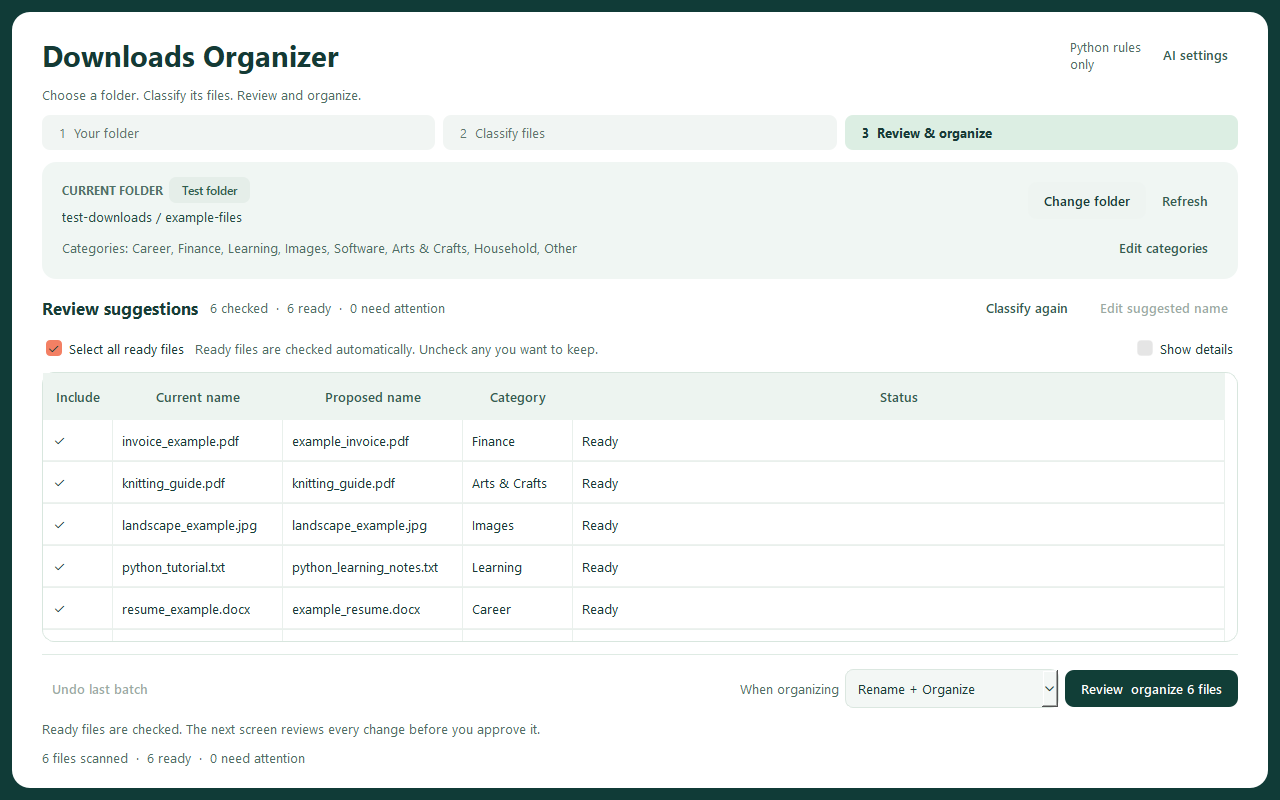
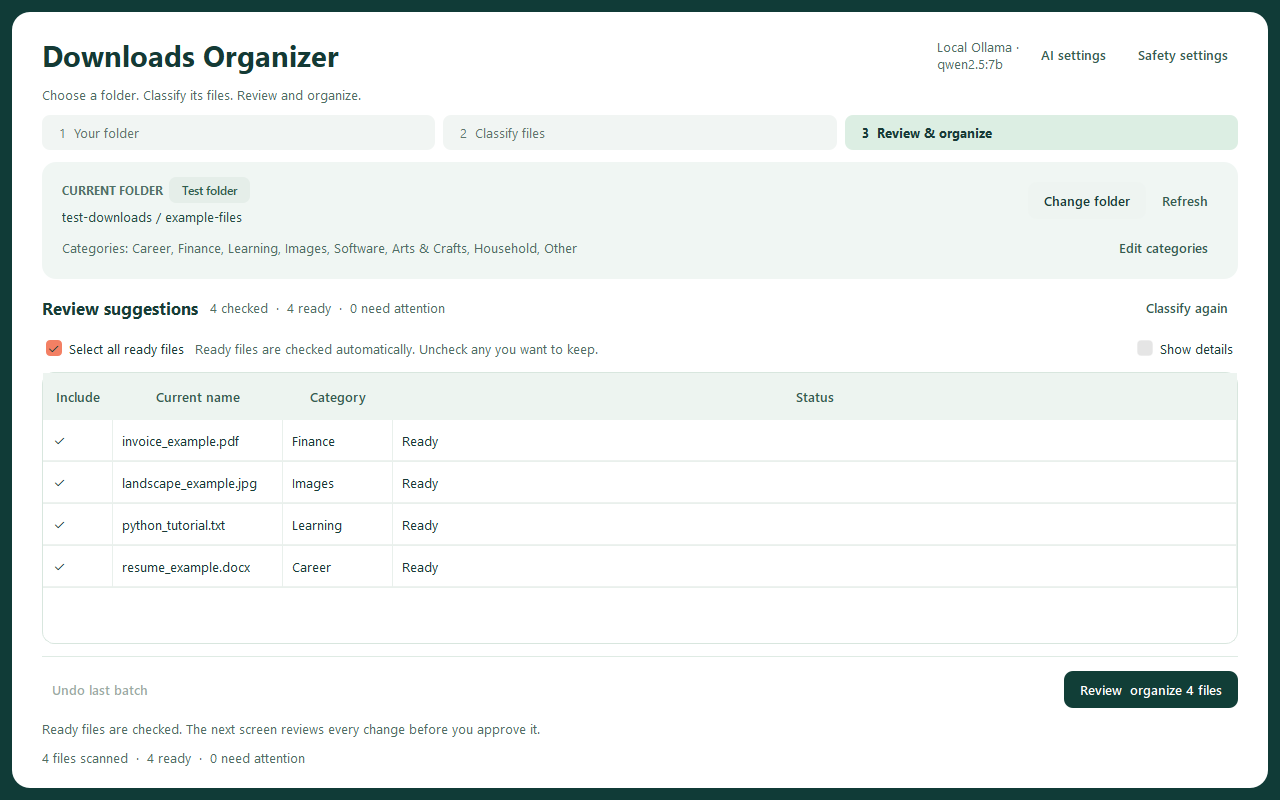
Preserve original filenames when organizing files

diff --git a/organizer/qt_interface.py b/organizer/qt_interface.py
@@ -404,6 +404,7 @@ class OrganizerWindow(QMainWindow):
         actions.addWidget(self.mode_label)
         self.mode_box = QComboBox()
         self.mode_box.addItems(MODES)
+        self.mode_box.setCurrentText('Organize only')
         self.mode_box.currentIndexChanged.connect(lambda _: self.prepare(preserve_checks=True))
         actions.addWidget(self.mode_box)
         self.ai_btn = self._button('Classify files', self.analyze, True)
@@ -466,18 +467,17 @@ class OrganizerWindow(QMainWindow):
         self.apply_btn.setVisible(reviewing and writable)
         self.apply_btn.setEnabled(idle and writable and checked > 0)
         self.apply_btn.setText(f'Review & organize {checked} {"file" if checked == 1 else "files"}')
-        self.mode_label.setVisible(reviewing and writable)
-        self.mode_box.setVisible(reviewing and writable)
-        self.mode_box.setEnabled(reviewing and writable)
+        self.mode_label.setVisible(False)
+        self.mode_box.setVisible(False)
+        self.mode_box.setEnabled(False)
         self.selection_bar.setVisible(reviewing and bool(self.proposals))
         self.select_all.setVisible(writable)
         self.selection_hint.setVisible(writable)
         self.select_all.setEnabled(idle and writable and ready > 0)
         self.details_toggle.setEnabled(idle)
-        self.edit_btn.setVisible(reviewing and writable and bool(self.files))
+        self.edit_btn.setVisible(False)
         focused = self.table.selectionModel().selectedRows()
-        self.edit_btn.setEnabled(reviewing and writable and len(focused) == 1
-                                 and self.mode_box.currentText() != 'Organize only')
+        self.edit_btn.setEnabled(False)
 
         self.table_title.setText('Review suggestions' if self.classified else 'Files in this folder')
         if self.busy:
@@ -488,7 +488,7 @@ class OrganizerWindow(QMainWindow):
             self.table_summary.setText(f'{len(self.files)} files')
         self.empty_label.setVisible(not self.files and idle)
         for column in (0, 2, 3, 4, 5, 6):
-            hidden = (not self.classified or (column == 0 and self.read_only)
+            hidden = (column == 2 or not self.classified or (column == 0 and self.read_only)
                       or (column in (4, 5, 6) and not self.details_toggle.isChecked()))
             self.table.setColumnHidden(column, hidden)
         if self.read_only:
@@ -500,7 +500,7 @@ class OrganizerWindow(QMainWindow):
             hint = 'Add files to this folder or choose another folder to begin.'
         elif not self.classified:
             hint = ('Start with Classify. You can review and edit the suggested categories first.' if self.categories is None
-                    else 'Classify files to get suggested names and categories. Files are changed only after your approval.')
+                    else 'Classify files to get suggested categories. Files are changed only after your approval.')
         elif not ready:
             hint = 'No files are ready to organize. Check their status, change the action, or classify again.'
         elif not checked:
@@ -579,7 +579,7 @@ class OrganizerWindow(QMainWindow):
                 read_only_reason = str(exc)
             else:
                 choice = QMessageBox.question(self, 'Folder access',
-                    f'Folder: {selected}\n\nAllow classification, approved renames/moves, and Undo here? '
+                    f'Folder: {selected}\n\nAllow classification, approved moves, and Undo here? '
                     'Only immediate files are scanned. Shared databases stay in the app data folder. '
                     'Choose No for read-only preview. No files change until you review and approve an operation.',
                     QMessageBox.StandardButton.Yes | QMessageBox.StandardButton.No | QMessageBox.StandardButton.Cancel,
@@ -589,7 +589,7 @@ class OrganizerWindow(QMainWindow):
                 writable_external = choice == QMessageBox.StandardButton.Yes
                 read_only = not writable_external
         warning = ('\n\nREAD-ONLY: files can be previewed but not changed or analyzed.\n' + read_only_reason if read_only else
-                   '\n\nWRITABLE: classification can read document text. Approved operations can rename/move files here. '
+                   '\n\nWRITABLE: classification can read document text. Approved operations can move files here. '
                    'Back up important files first. Undo applies to this folder only.')
         answer, ok = QInputDialog.getText(self, 'Confirm folder change',
             f'Current: {self.selected_root}\nNew: {selected}{warning}\n\nThe current scan and preview will be cleared. Type YES to continue:')
@@ -653,8 +653,8 @@ class OrganizerWindow(QMainWindow):
             self.status.setText(f'{len(self.files)} files loaded from this folder.')
             return True
         try:
-            self.proposals = (build_readonly_proposals(self.files, self.mode_box.currentText(), self.selected_root)
-                              if self.read_only else build_proposals(self.files, self.mode_box.currentText(), self.selected_root, self.edited_names, self.categories, self.ai_config))
+            self.proposals = (build_readonly_proposals(self.files, 'Organize only', self.selected_root)
+                              if self.read_only else build_proposals(self.files, 'Organize only', self.selected_root, None, self.categories, self.ai_config))
         except Exception as exc:
             self.proposals = []
             self.table.setRowCount(0)

diff --git a/tests/test_organizer.py b/tests/test_organizer.py
@@ -293,10 +293,19 @@ class OrganizerTests(unittest.TestCase):
         (self.root / 'Finance' / 'taken.pdf').write_bytes(b'other')
         proposals = file_manager.build_proposals(classifier.scan(), 'Rename + Organize', self.root,
                                                   {'invoice.pdf': 'taken.pdf'})
-        self.assertEqual(proposals[0]['issue'], 'Destination already exists')
+        self.assertEqual(proposals[0]['dst'].name, 'invoice.pdf')
+
+    def test_apply_rejects_tampered_rename_proposal(self):
+        self.file('invoice.pdf')
+        file_manager.history_init()
+        proposal = file_manager.build_proposals(classifier.scan(), 'Organize only')[0]
+        proposal['dst'] = proposal['dst'].with_name('renamed.pdf')
+        result = file_manager.apply_proposals([proposal])
+        self.assertIn('Renaming is disabled', result[0][1])
+        self.assertTrue((self.root / 'invoice.pdf').is_file())
         proposals = file_manager.build_proposals(classifier.scan(), 'Rename + Organize', self.root,
                                                   {'invoice.pdf': '../bad.pdf'})
-        self.assertEqual(proposals[0]['issue'], 'Unsafe filename or changed extension')
+        self.assertEqual(proposals[0]['dst'].name, 'invoice.pdf')
 
     def test_edit_name_invalidates_gui_preview(self):
         self.file('invoice.pdf')
@@ -309,10 +318,9 @@ class OrganizerTests(unittest.TestCase):
                 with patch.object(interface.messagebox, 'showinfo'):
                     app.show_preview()
                 app.tree.selection_set('file:0')
-                with patch.object(interface.simpledialog, 'askstring', return_value='bill.pdf'):
+                with patch.object(interface.messagebox, 'showinfo'):
                     app.edit_name()
-                self.assertIsNone(app.preview_root)
-                self.assertEqual(app.proposals[0]['dst'].name, 'bill.pdf')
+                self.assertEqual(app.proposals[0]['dst'].name, 'invoice.pdf')
                 self.assertTrue((self.root / 'invoice.pdf').exists())
             finally:
                 window.destroy()

diff --git a/tests/test_qt_interface.py b/tests/test_qt_interface.py
@@ -113,9 +113,8 @@ class QtInterfaceTests(unittest.TestCase):
         self.window.categories = config.CATEGORIES
         self.window.analyze()
         self.window.table.selectRow(0)
-        with patch.object(qt_interface.QInputDialog, 'getText', return_value=('bill.pdf', True)):
-            self.window.edit_name()
-        self.assertEqual(self.window.proposals[0]['dst'].name, 'bill.pdf')
+        self.assertEqual(self.window.proposals[0]['dst'].name, 'invoice.pdf')
+        self.assertTrue(self.window.edit_btn.isHidden())
         with patch.object(qt_interface.QFileDialog, 'getExistingDirectory', return_value=str(other)), \
              patch.object(qt_interface.QInputDialog, 'getText', return_value=('no', True)):
             self.window.choose_folder()
@@ -293,15 +292,15 @@ class QtInterfaceTests(unittest.TestCase):
         self.assertFalse(self.window.apply_btn.isHidden())
         self.assertTrue(self.window.apply_btn.isEnabled())
         self.assertIn('1 file', self.window.apply_btn.text())
-        self.assertFalse(self.window.table.isColumnHidden(2))
+        self.assertTrue(self.window.table.isColumnHidden(2))
         self.assertTrue(self.window.table.isColumnHidden(4))
         self.window.details_toggle.setChecked(True)
         self.assertFalse(self.window.table.isColumnHidden(4))
         self.assertEqual(self.window.selected_rows(), [0])
-        self.assertFalse(self.window.mode_box.isHidden())
+        self.assertTrue(self.window.mode_box.isHidden())
         self.assertFalse(self.window.edit_btn.isEnabled())
         self.window.table.selectRow(0)
-        self.assertTrue(self.window.edit_btn.isEnabled())
+        self.assertFalse(self.window.edit_btn.isEnabled())
         self.assertEqual(self.window.selected_rows(), [0])
 
         self.window.select_all.setCheckState(Qt.CheckState.Unchecked)

diff --git a/organizer/interface.py b/organizer/interface.py
@@ -52,7 +52,7 @@ class OrganizerApp:
         self.preview_root = None
         self.queue = Queue()
         self.busy = False
-        self.mode = tk.StringVar(value=MODES[0])
+        self.mode = tk.StringVar(value='Organize only')
         history_init()
 
         main = ttk.Frame(window, padding=(34, 27, 34, 18))
@@ -79,7 +79,6 @@ class OrganizerApp:
         ttk.Label(buttons, text='Action').pack(side='left', padx=(12, 6))
         self.mode_box = ttk.Combobox(buttons, textvariable=self.mode, values=MODES,
                                      state='readonly', width=21)
-        self.mode_box.pack(side='left', padx=(0, 8))
         self.mode_box.bind('<<ComboboxSelected>>', lambda event: self.prepare())
         self.preview_btn = ttk.Button(buttons, text='3  Preview', command=self.show_preview)
         self.preview_btn.pack(side='left')
@@ -117,7 +116,6 @@ class OrganizerApp:
         self.undo_btn = ttk.Button(actions, text='Undo last batch', command=self.confirm_undo)
         self.undo_btn.pack(side='left', padx=(0, 8))
         self.edit_btn = ttk.Button(actions, text='Edit suggested name', command=self.edit_name)
-        self.edit_btn.pack(side='left')
         self.status = tk.StringVar(value='Ready. Scan files to begin.')
         ttk.Label(main, textvariable=self.status, padding=(0, 12, 0, 0),
                   style='Subtitle.TLabel').pack(fill='x', side='bottom')

diff --git a/organizer/file_manager.py b/organizer/file_manager.py
@@ -98,6 +98,8 @@ def safe_destination(path, root=None, categories=None):
 def build_proposals(files, mode, root=None, name_overrides=None, categories=None, ai_config=None):
     if mode not in MODES:
         raise ValueError('Invalid operating mode')
+    mode = 'Organize only'
+    name_overrides = None
     root = validate_operation_folder(ROOT if root is None else root)
     allowed = CATEGORIES if categories is None else tuple(categories)
     proposals = []
@@ -161,6 +163,7 @@ def build_readonly_proposals(files, mode, root):
     root = validate_preview_folder(root)
     if mode not in MODES:
         raise ValueError('Invalid operating mode')
+    mode = 'Organize only'
     proposals = []
     for f in files:
         original = f['filename']
@@ -182,6 +185,8 @@ def build_readonly_proposals(files, mode, root):
 
 def revalidate(proposal, root=None):
     src, dst = proposal['src'], proposal['dst']
+    if src.name != dst.name:
+        return False, 'Renaming is disabled; original filenames must be preserved'
     root = validate_operation_folder(ROOT if root is None else root)
     allowed = proposal.get('categories', CATEGORIES)
     if proposal.get('root') != root or not safe_source(src, root) or not safe_destination(dst, root, allowed):

diff --git a/README.md b/README.md
@@ -1,9 +1,8 @@
 # Hybrid Downloads Organizer
 
-![Downloads Organizer showing proposed filenames, categories, and the review action](docs/images/app-screenshot.png)
+![Downloads Organizer showing files and proposed categories](docs/images/app-screenshot.png)
 
-*The current PySide6 interface with synthetic example files and edited name
-suggestions. No personal files are shown.*
+*The application organizes files into category folders while preserving their original names.*
 
 Run the modular desktop application from PowerShell:
 
@@ -17,7 +16,7 @@ python downloads_organizer.py
 ## How to use the app
 
 Follow this flow from opening the app to reviewing and approving changes.
-Classifying files only proposes names and categories; it does not move or rename
+Classifying files only proposes categories; it does not move or rename
 them. Ready files are checked automatically, so you do not need to select every
 row yourself.
 
@@ -38,9 +37,8 @@ flowchart TD
     Classify --> Estimate["Review the estimated duration and confirm classification"]
     Estimate --> Run["Watch progress, elapsed time, and estimated time remaining"]
     Run --> Summary["View the classification summary chart"]
-    Summary --> Review["Review proposed names and categories; edit names or uncheck files as needed"]
-    Review --> Mode["Choose Rename + Organize, Organize only, or Rename only"]
-    Mode --> Organize["Click Review & organize"]
+    Summary --> Review["Review categories and uncheck files as needed"]
+    Review --> Organize["Click Review & organize"]
     Organize --> Preview["Review every proposed change in the confirmation window"]
     Preview --> Approve{"Approve and type YES?"}
     Approve -->|No| Review
@@ -124,8 +122,8 @@ that can use Python rules/cache, unique files requiring AI, and duplicate copies
 that can reuse results. OpenAI data consent is included in this confirmation when
 needed. Cancelling does not start new analysis. The app then runs Python rules
 and the configured AI provider for files that need it. In
-rules-only mode, ambiguous files remain unresolved. The table shows the proposed
-name and category. While AI is working, an animated spinner remains active,
+rules-only mode, ambiguous files remain unresolved. The table shows the original
+name and proposed category. While AI is working, an animated spinner remains active,
 and a progress bar advances as AI batches are checked. Elapsed time and an
 estimated remaining time range update every second. Initial estimates are rough
 heuristics; successful batches improve estimates for that provider/model during
@@ -138,8 +136,7 @@ finishes, a chart shows Python-rule results, AI results (including cached AI),
 and unresolved files. Ready files are checked by default; use the checkboxes or
 **Select all ready files** to adjust the selection. The main action becomes
 **Review & organize**, showing the checked file count; it opens a scrollable
-list of changes before confirmation. The organization mode is next to that
-button. Click a row to enable **Edit suggested name** above the table. Use
+list of changes before confirmation. Original filenames are preserved. Use
 **Show details** to see destinations, classification sources and duplicate counts.
 Use **Edit
 categories** to change a folder's list; `Other`
@@ -153,8 +150,7 @@ needed; it leaves the old databases in place as backups. The backups do not
 receive later updates. Check files and review the proposed changes
 before confirming any operation. Undo targets the latest completed batch in
 the currently selected folder and shows its recorded paths for review.
-Use **Edit suggested name** to change a test-file suggestion; the original
-extension is required and collisions are checked again in preview.
+Destination collisions are checked before moving files.
 If an operation is marked pending,
 inspect both paths and the operation history before deciding how to recover.
 Do not edit the history database without first backing it up.

diff --git a/PROJECT_CONTEXT.md b/PROJECT_CONTEXT.md
@@ -18,7 +18,7 @@ This project began as a practical AI-agents learning exercise alongside the Hugg
 - The PySide6 window lists the selected folder's files automatically, offers folder-specific categories, and classifies using Python rules plus Ollama. Classification cache validity includes the chosen category set.
 - The primary action changes from Classify to Review & organize. Ready files are checked by default; a select-all control supports bulk operations. A scrollable review and explicit YES confirmation precede moves.
 - Classification now requires confirmation with an approximate time range and rules/cache/unique-AI/duplicate counts. OpenAI excerpt/cost consent is included when needed. During AI batches, a QTimer updates elapsed and estimated remaining time, and actual batch completions advance the progress bar. Estimates adapt from successful provider/model-specific batch timings in memory for the session; initial ranges are rough heuristics, not measured guarantees. Overruns are explicit. Cancelling preserves the current preview and starts no worker. No classification/cache policy changes or new persistent timing data.
-- Folder/category controls are grouped together, name editing is above the table, and Undo is separate in the footer. Details can be expanded; smaller windows use a compact layout.
+- Folder/category controls are grouped together and Undo is separate in the footer. File renaming controls are hidden and new operations preserve original filenames; the backend rejects rename proposals. Existing operation history remains available for Undo. The older AI response and cache schema still carry filename suggestions internally for compatibility, but they are not applied.
 - The app starts in `test-downloads`. The PySide6 folder picker now offers explicitly approved writable external folders on fixed local NTFS drives, or read-only preview. Typed YES is required to change folders, and each operation still requires review and YES. Writable approval is scoped to a folder identity for the app session. System/application/hidden folders, known cloud-sync locations, network/removable drives and links are excluded. Real Downloads remains blocked pending explicit authorization.
 - External moves and Undo use Windows handles that deny concurrent source writes/deletion and directory replacement, verify file identity/content, and rename without overwriting. Test-folder operations retain the prior hard-link workflow. Shared database schemas and existing records are preserved. `tests/manual_external_workflow.py` exercises actual moves and folder-scoped Undo in a disposable sibling folder outside the project, with isolated test databases and automated dialog answers; no AI or personal files.
 - Writable external target folders must have the configured final name, default `Downloads`, ignoring case and regardless of parent path. `Safety settings` changes that name only after a warning and typed YES; saving revokes existing approvals and clears suggestions. The developer test sandbox is exempt. Settings persist in ignored `safety_settings.json`; invalid settings fail closed for external writes. The rule does not unlock the real Windows Downloads location or other protected folders, and changing it does not alter databases or classification cache policy.
